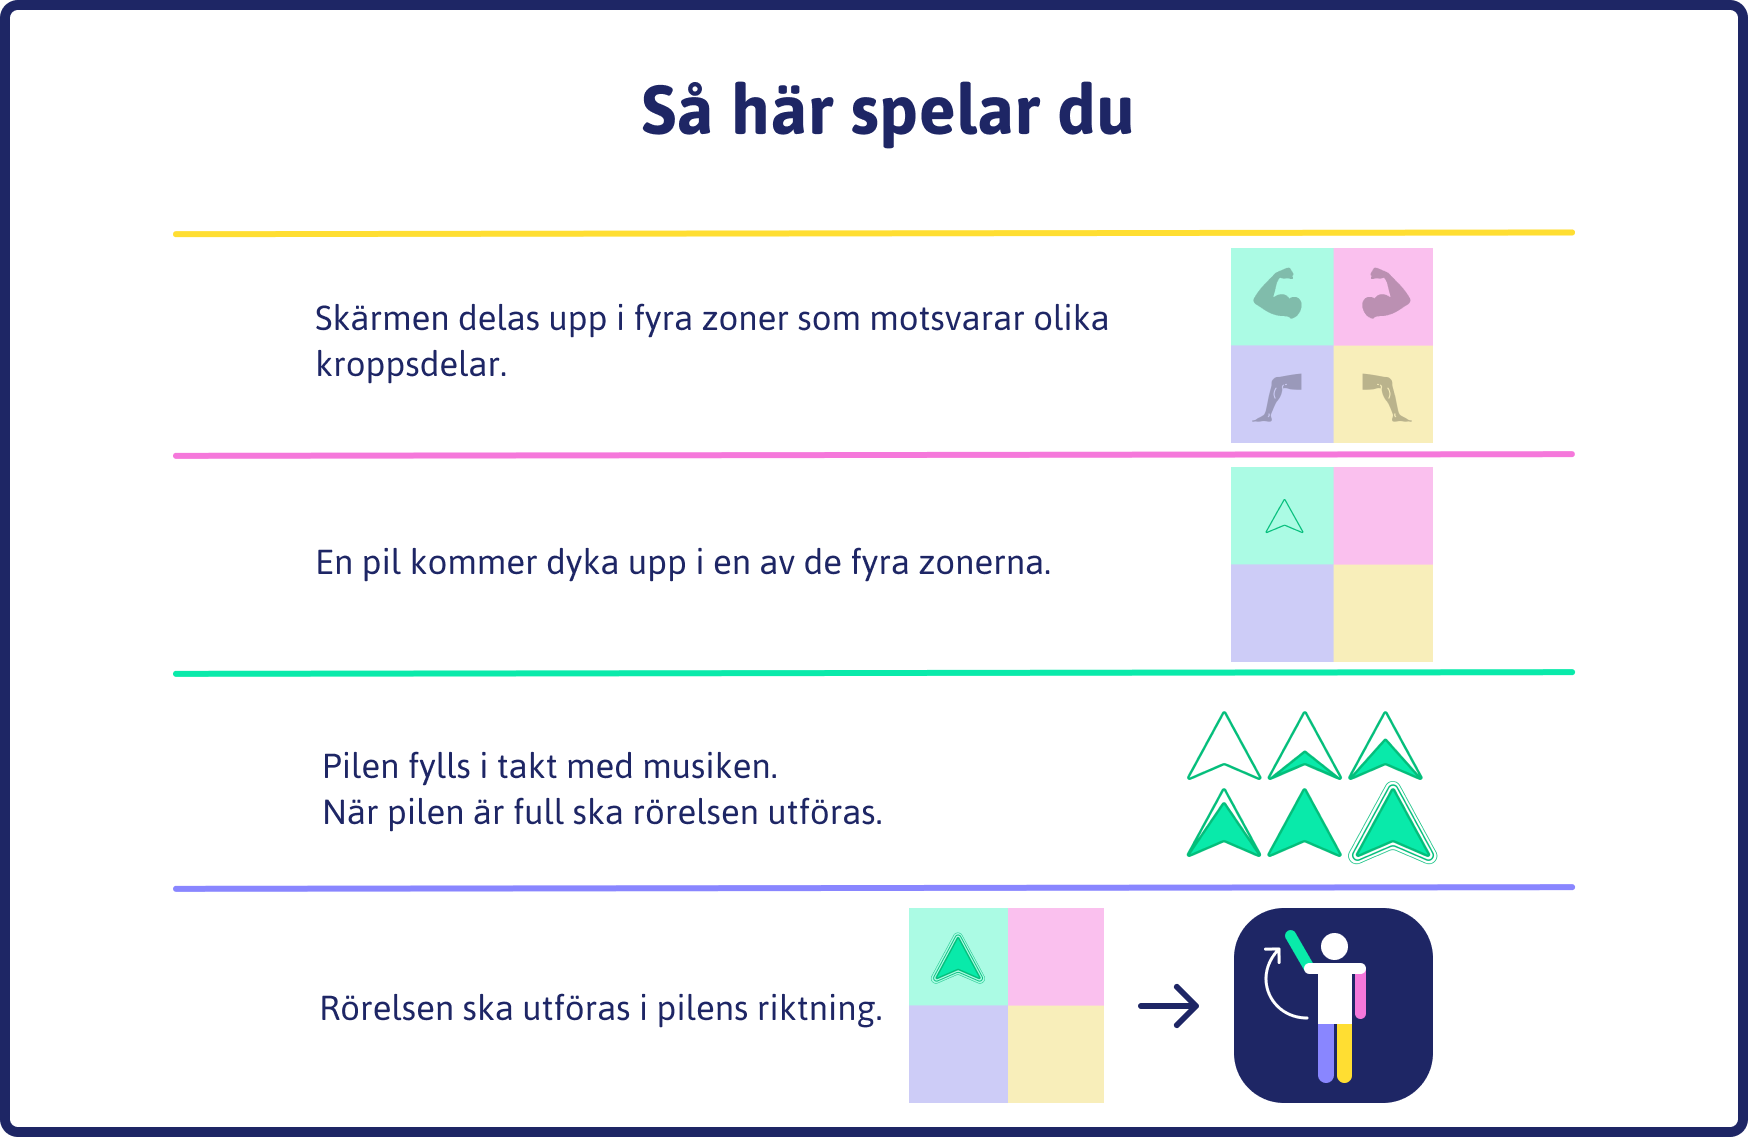
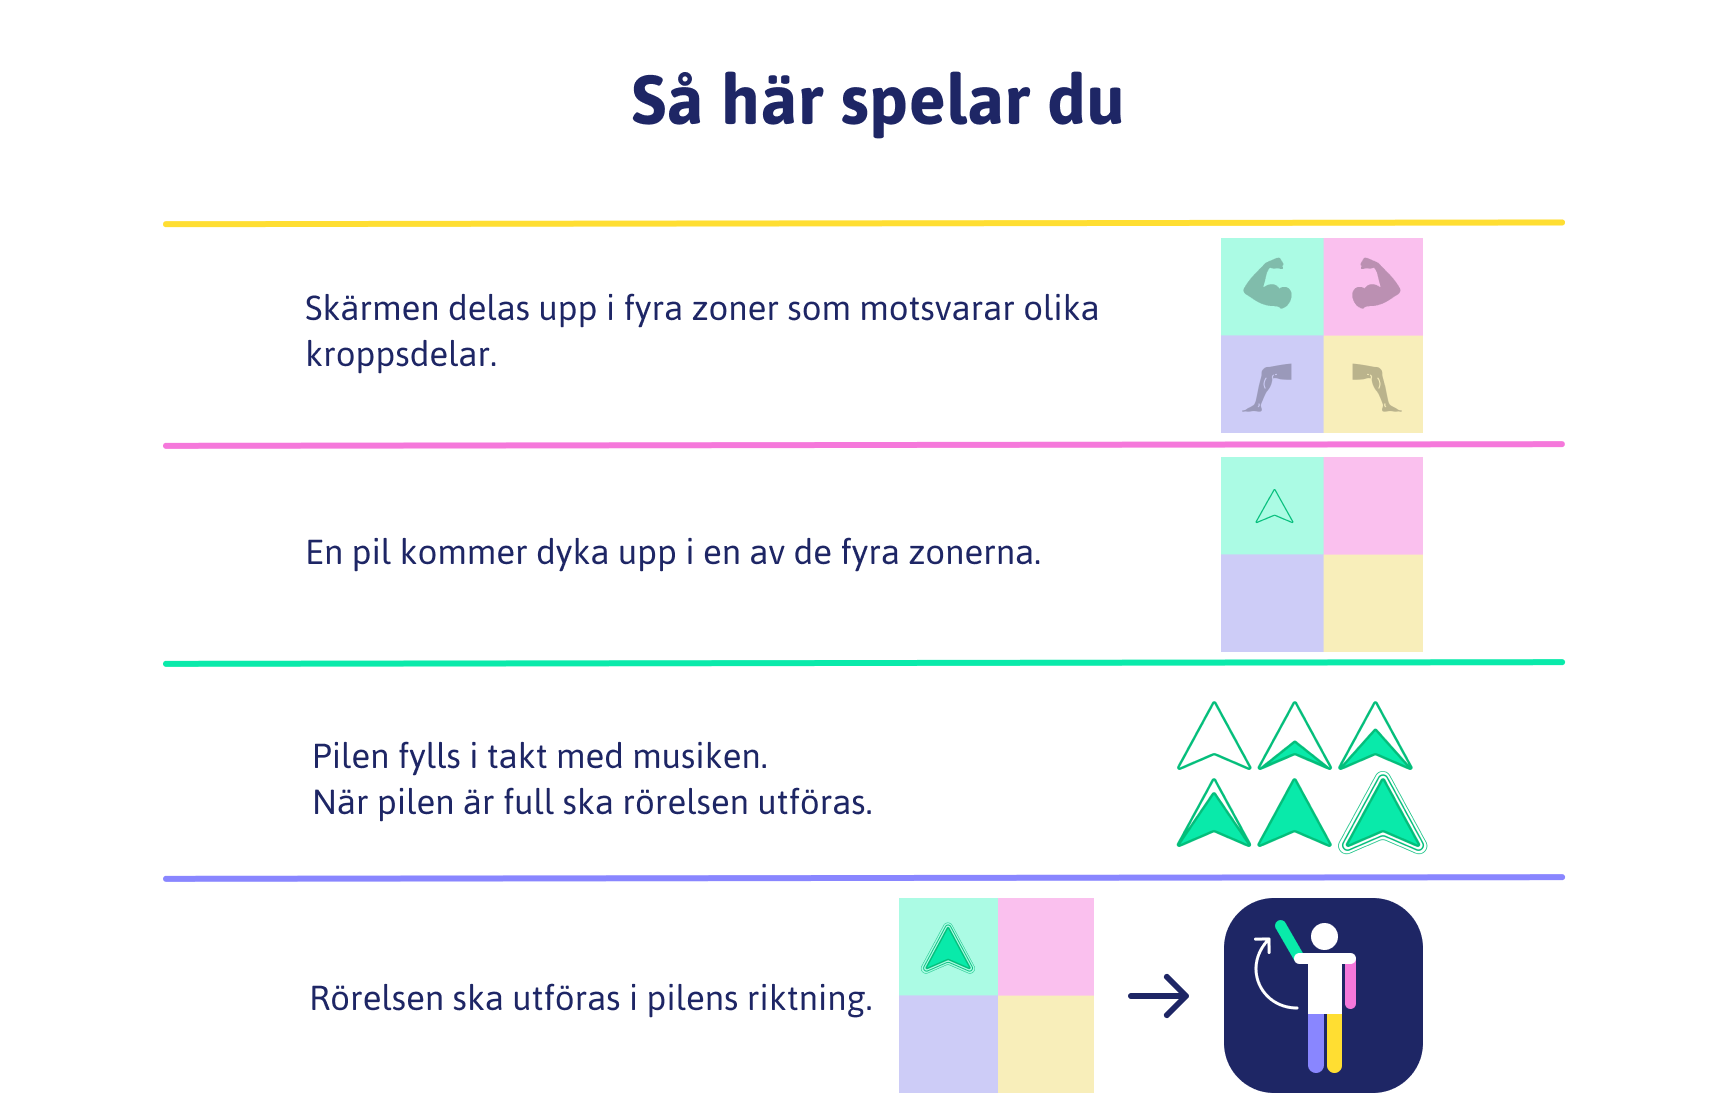
background white

diff --git a/game.js b/game.js
@@ -11,7 +11,7 @@ const config = {
     type: Phaser.AUTO,
     width: sizes.width,
     height: sizes.height,
-    backgroundColor: 0x000000,
+    backgroundColor: 0xffffff,
     dom: {
         createContainer: true
     },
